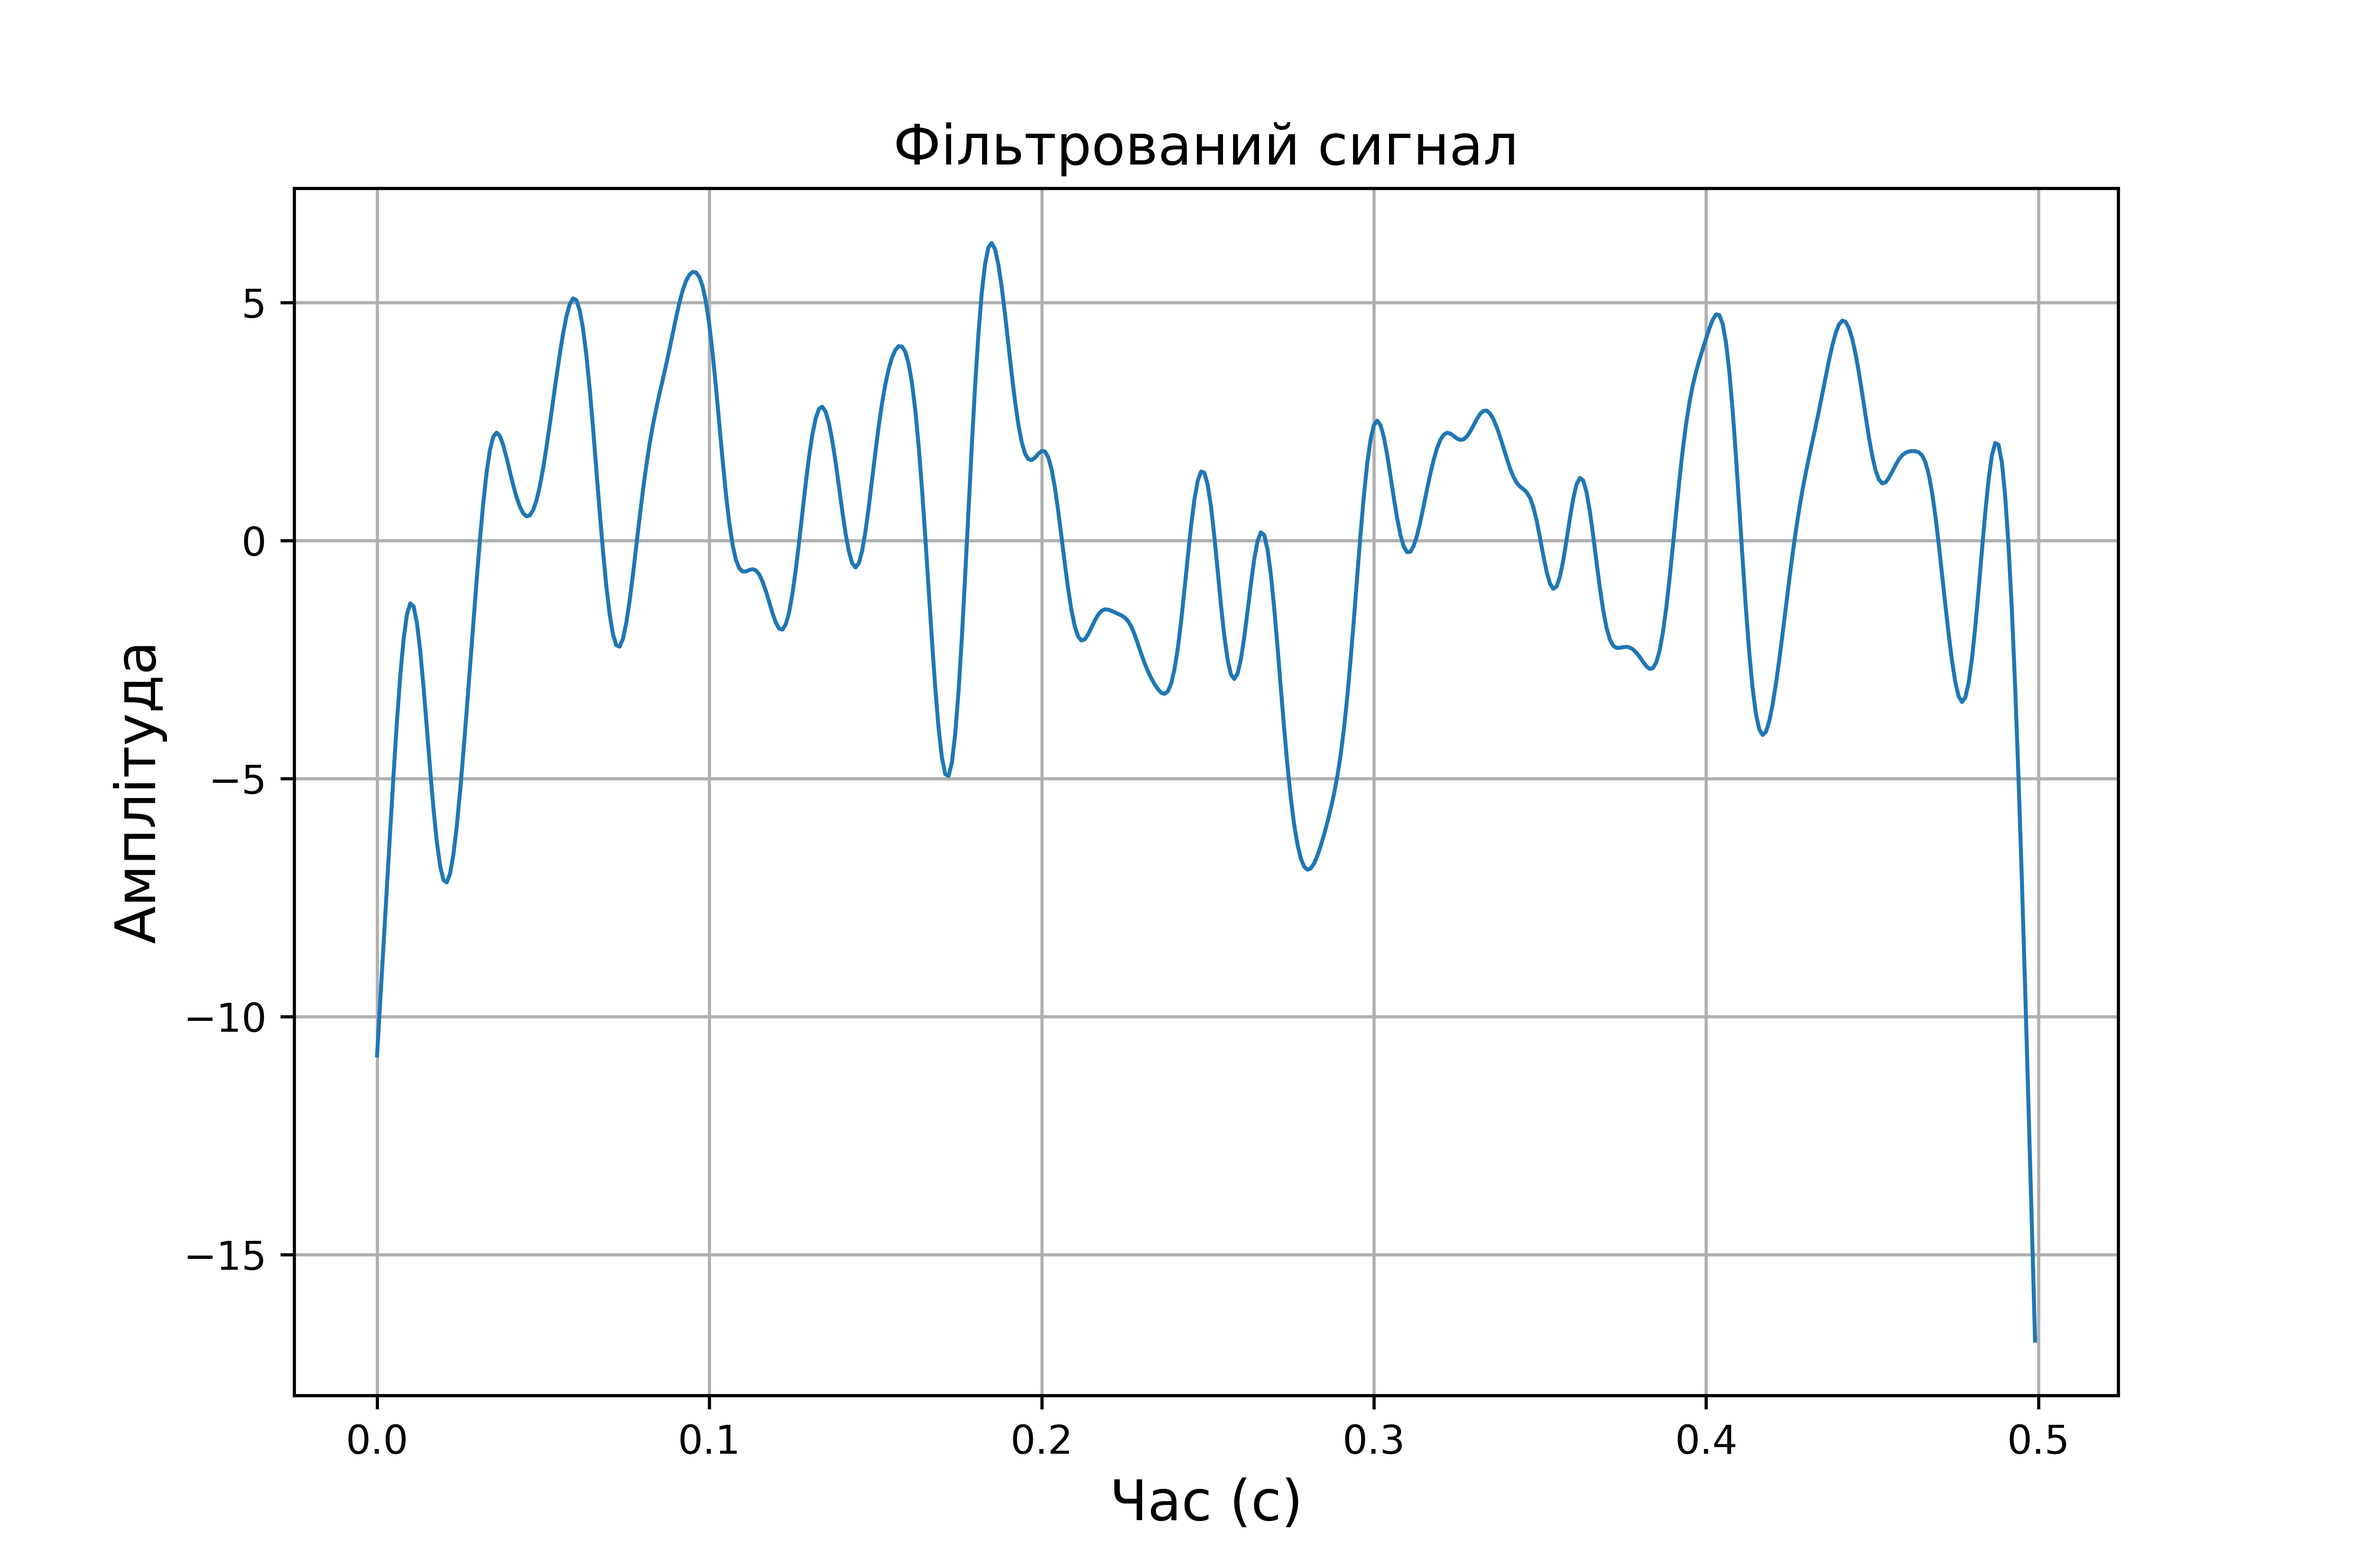
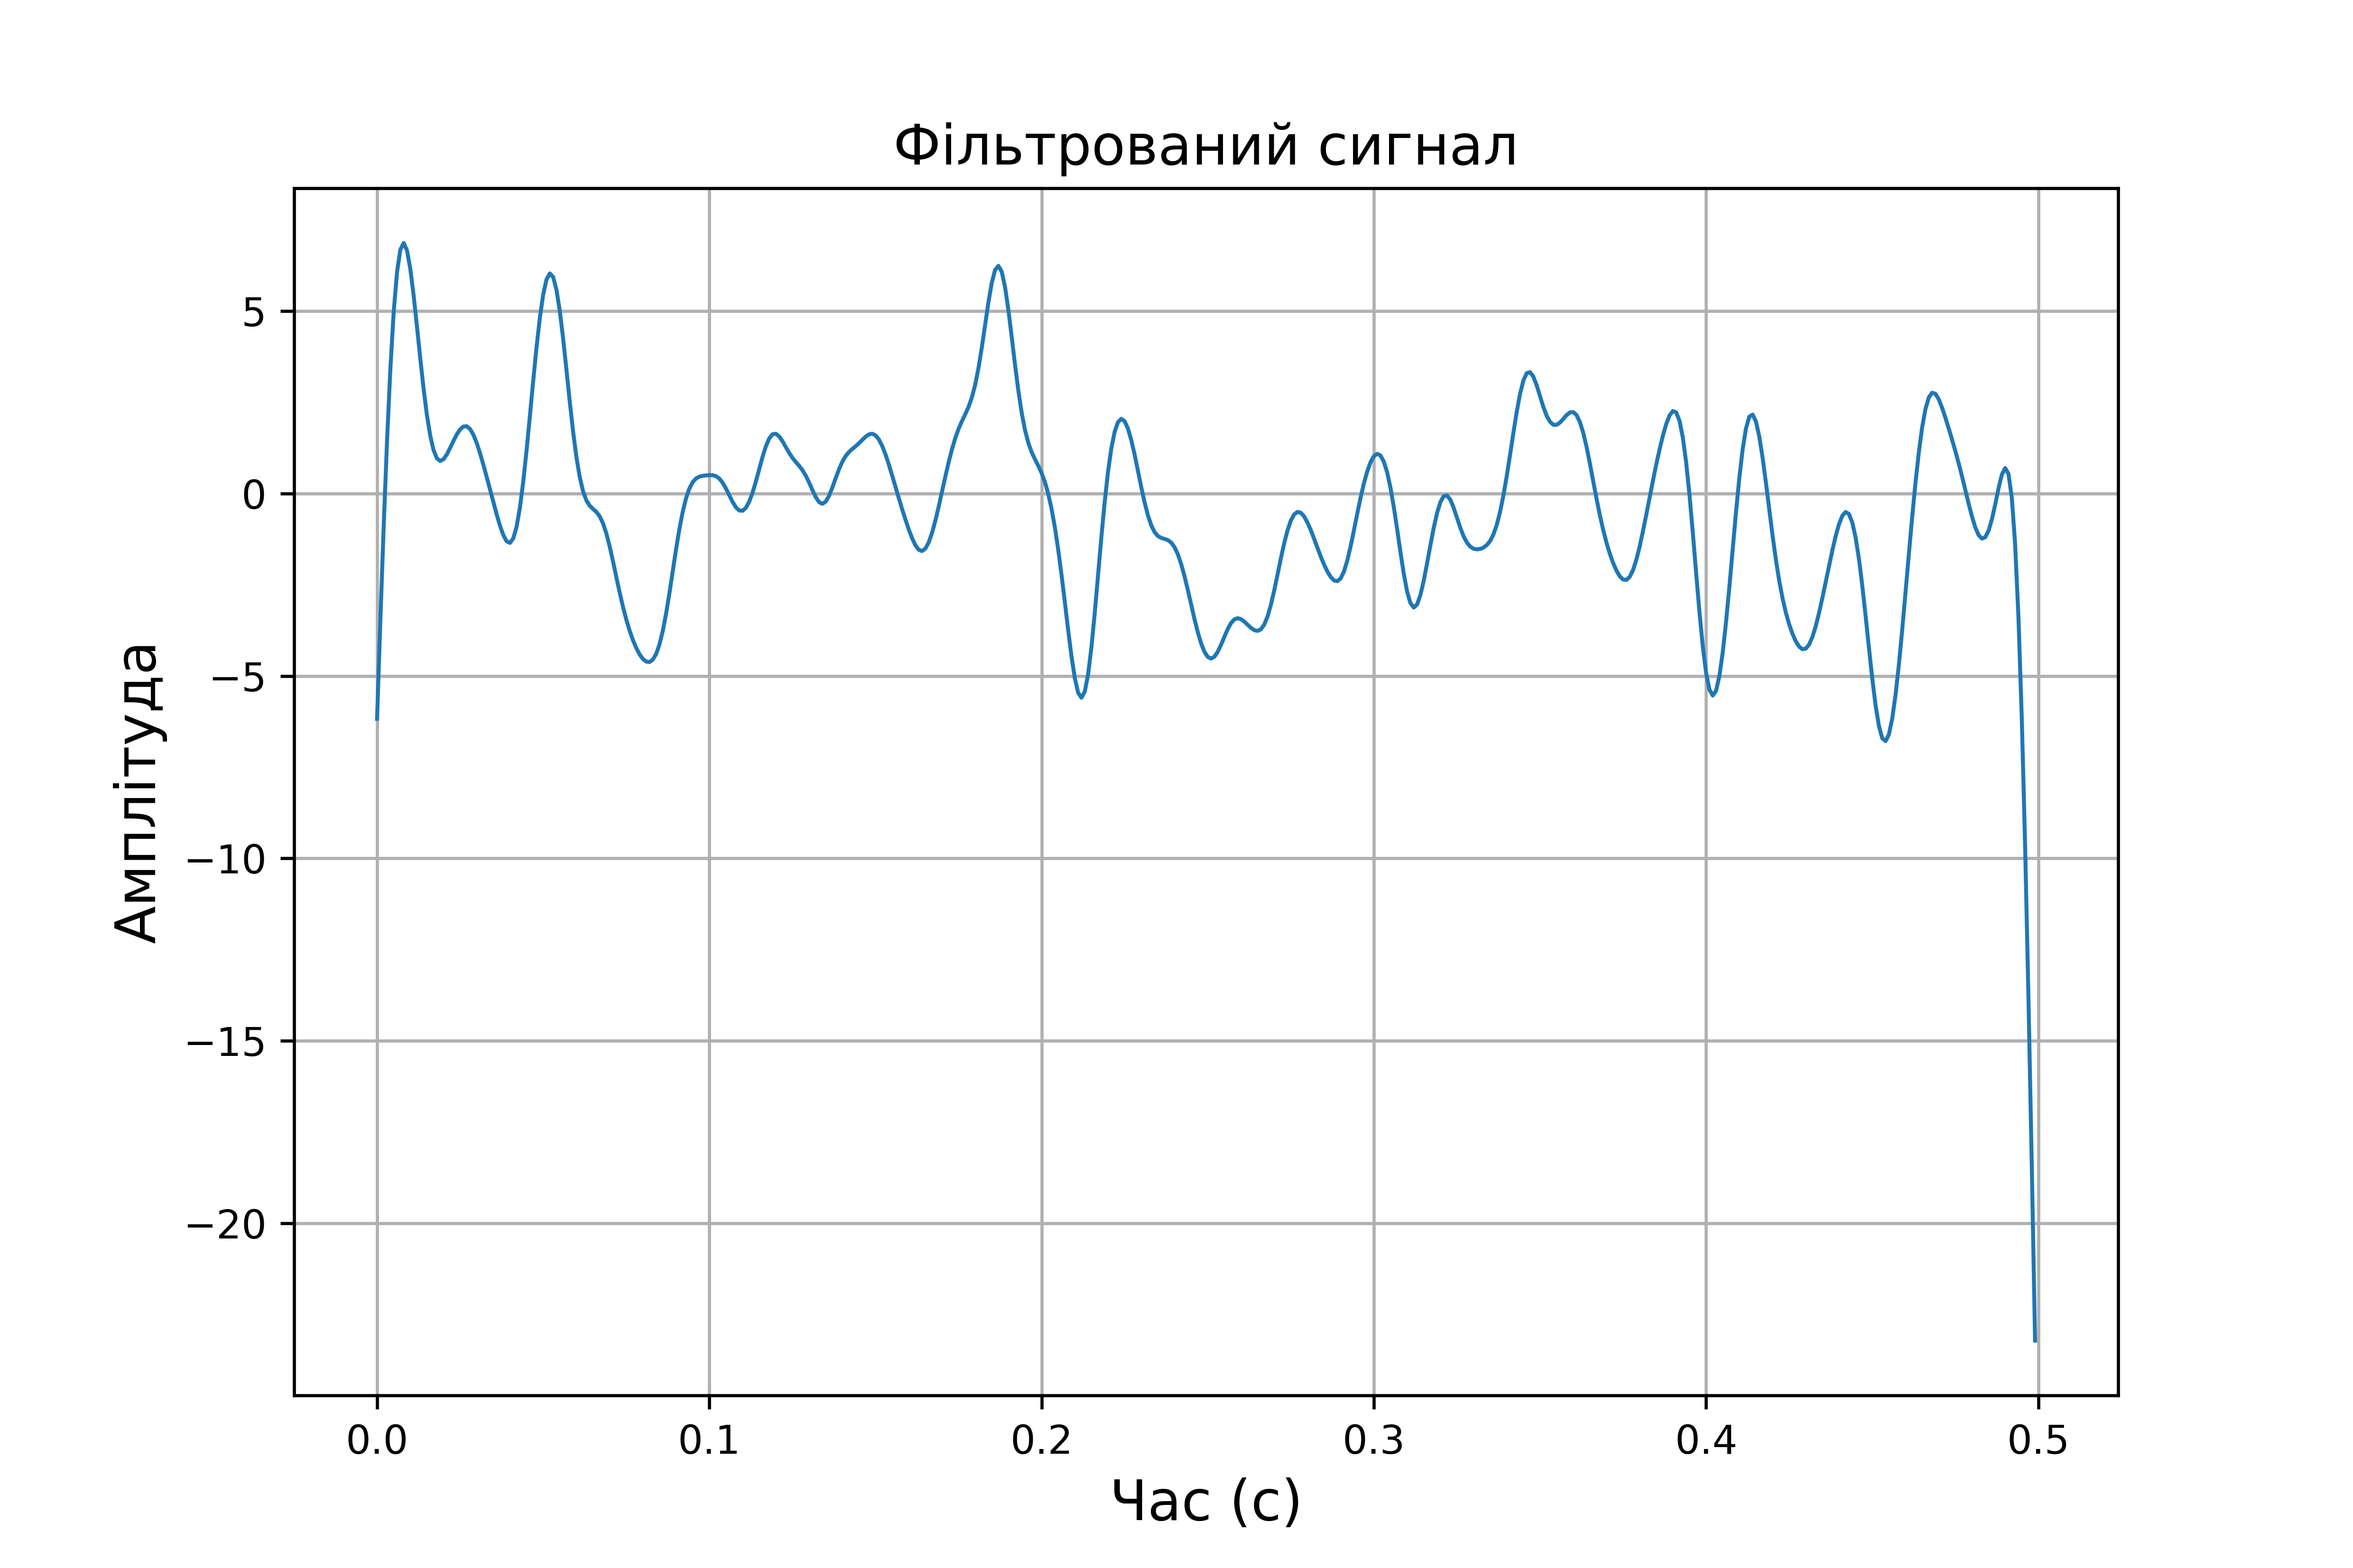
Signal processing, 3

diff --git a/SignalProcessing/SignalProcessing.py b/SignalProcessing/SignalProcessing.py
@@ -3,9 +3,10 @@ import matplotlib.pyplot as plt
 from scipy import signal
 import os
 
+
 def plot_graph(y, x, title, xlabel, ylabel, filename):
     os.makedirs('figures', exist_ok=True)
-    fig, ax = plt.subplots(figsize=(21/2.54, 14/2.54))
+    fig, ax = plt.subplots(figsize=(21 / 2.54, 14 / 2.54))
     ax.plot(x, y, linewidth=1)
     ax.set_xlabel(xlabel, fontsize=14)
     ax.set_ylabel(ylabel, fontsize=14)
@@ -13,6 +14,11 @@ def plot_graph(y, x, title, xlabel, ylabel, filename):
     plt.grid(True)
     plt.savefig(f'figures/{filename}.png', dpi=600)
     plt.show()
+
+
+# =====================================================
+# ПРАКТИЧНА РОБОТА №2 - ГЕНЕРАЦІЯ СИГНАЛУ
+# =====================================================
 
 n = 500
 Fs = 1000
@@ -28,17 +34,16 @@ filtered_signal = signal.sosfiltfilt(sos, random_signal)
 plot_graph(filtered_signal, t, 'Фільтрований сигнал', 'Час (с)', 'Амплітуда', 'filtered_signal')
 
 spectrum = np.abs(np.fft.fftshift(np.fft.fft(filtered_signal)))
-freq = np.fft.fftshift(np.fft.fftfreq(n, 1/Fs))
+freq = np.fft.fftshift(np.fft.fftfreq(n, 1 / Fs))
 
 plot_graph(spectrum, freq, 'Спектр сигналу', 'Частота (Гц)', 'Амплітуда', 'spectrum')
+
 # =====================================================
 # ПРАКТИЧНА РОБОТА №3 - ДИСКРЕТИЗАЦІЯ
 # =====================================================
 
-# Кроки дискретизації
 steps = [2, 4, 8, 16]
 
-# Списки для збереження результатів
 discrete_signals = []
 discrete_spectrums = []
 reconstructed_signals = []
@@ -46,23 +51,19 @@ variances = []
 snr_values = []
 
 for Dt in steps:
-    # 1. Дискретизація (прорідження)
     discrete_signal = np.zeros(n)
     for i in range(0, n, Dt):
         discrete_signal[i] = filtered_signal[i]
     discrete_signals.append(discrete_signal)
 
-    # 2. Спектр дискретизованого сигналу
-    spectrum = np.abs(np.fft.fftshift(np.fft.fft(discrete_signal)))
-    discrete_spectrums.append(spectrum)
+    spectrum_discrete = np.abs(np.fft.fftshift(np.fft.fft(discrete_signal)))
+    discrete_spectrums.append(spectrum_discrete)
 
-    # 3. Відновлення аналогового сигналу (ФНЧ)
     w_recon = F_max / (Fs / 2)
     sos_recon = signal.butter(3, w_recon, 'low', output='sos')
     reconstructed = signal.sosfiltfilt(sos_recon, discrete_signal)
     reconstructed_signals.append(reconstructed)
 
-    # 4. Розрахунок дисперсії та SNR
     error = reconstructed - filtered_signal
     var_error = np.var(error)
     var_signal = np.var(filtered_signal)
@@ -70,80 +71,72 @@ for Dt in steps:
     snr = var_signal / var_error if var_error > 0 else float('inf')
     snr_values.append(snr)
 
-# =====================================================
-# ПОБУДОВА ГРАФІКІВ
-# =====================================================
-
-font_size = 14
-line_width = 1
-fig_size = (21 / 2.54, 14 / 2.54)
-
-# 1. Графіки дискретизованих сигналів
-fig, ax = plt.subplots(2, 2, figsize=fig_size)
+# Графіки дискретизованих сигналів
+fig, ax = plt.subplots(2, 2, figsize=(21 / 2.54, 14 / 2.54))
 s = 0
 for i in range(2):
     for j in range(2):
-        ax[i, j].plot(t, discrete_signals[s], linewidth=line_width)
-        ax[i, j].set_title(f'Dt = {steps[s]}', fontsize=font_size)
+        ax[i, j].plot(t, discrete_signals[s], linewidth=1)
+        ax[i, j].set_title(f'Dt = {steps[s]}', fontsize=14)
         ax[i, j].grid(True)
         s += 1
-fig.supxlabel('Час (с)', fontsize=font_size)
-fig.supylabel('Амплітуда', fontsize=font_size)
-fig.suptitle('Дискретизовані сигнали', fontsize=font_size)
+fig.supxlabel('Час (с)', fontsize=14)
+fig.supylabel('Амплітуда', fontsize=14)
+fig.suptitle('Дискретизовані сигнали', fontsize=14)
 plt.tight_layout()
 plt.savefig('figures/discrete_signals.png', dpi=600)
 plt.show()
 
-# 2. Графіки спектрів дискретизованих сигналів
-fig, ax = plt.subplots(2, 2, figsize=fig_size)
+# Графіки спектрів
+fig, ax = plt.subplots(2, 2, figsize=(21 / 2.54, 14 / 2.54))
 s = 0
 for i in range(2):
     for j in range(2):
-        ax[i, j].plot(freq, discrete_spectrums[s], linewidth=line_width)
-        ax[i, j].set_title(f'Dt = {steps[s]}', fontsize=font_size)
+        ax[i, j].plot(freq, discrete_spectrums[s], linewidth=1)
+        ax[i, j].set_title(f'Dt = {steps[s]}', fontsize=14)
         ax[i, j].grid(True)
         s += 1
-fig.supxlabel('Частота (Гц)', fontsize=font_size)
-fig.supylabel('Амплітуда', fontsize=font_size)
-fig.suptitle('Спектри дискретизованих сигналів', fontsize=font_size)
+fig.supxlabel('Частота (Гц)', fontsize=14)
+fig.supylabel('Амплітуда', fontsize=14)
+fig.suptitle('Спектри дискретизованих сигналів', fontsize=14)
 plt.tight_layout()
 plt.savefig('figures/discrete_spectrums.png', dpi=600)
 plt.show()
 
-# 3. Графіки відновлених сигналів
-fig, ax = plt.subplots(2, 2, figsize=fig_size)
+# Графіки відновлених сигналів
+fig, ax = plt.subplots(2, 2, figsize=(21 / 2.54, 14 / 2.54))
 s = 0
 for i in range(2):
     for j in range(2):
-        ax[i, j].plot(t, reconstructed_signals[s], linewidth=line_width, label='Відновлений')
-        ax[i, j].plot(t, filtered_signal, 'r--', linewidth=line_width, label='Оригінал')
-        ax[i, j].set_title(f'Dt = {steps[s]}', fontsize=font_size)
+        ax[i, j].plot(t, reconstructed_signals[s], linewidth=1, label='Відновлений')
+        ax[i, j].plot(t, filtered_signal, 'r--', linewidth=1, label='Оригінал')
+        ax[i, j].set_title(f'Dt = {steps[s]}', fontsize=14)
         ax[i, j].grid(True)
         ax[i, j].legend()
         s += 1
-fig.supxlabel('Час (с)', fontsize=font_size)
-fig.supylabel('Амплітуда', fontsize=font_size)
-fig.suptitle('Відновлені сигнали', fontsize=font_size)
+fig.supxlabel('Час (с)', fontsize=14)
+fig.supylabel('Амплітуда', fontsize=14)
+fig.suptitle('Відновлені сигнали', fontsize=14)
 plt.tight_layout()
 plt.savefig('figures/reconstructed_signals.png', dpi=600)
 plt.show()
 
-# 4. Графік дисперсії від кроку дискретизації
-plt.figure(figsize=fig_size)
-plt.plot(steps, variances, 'bo-', linewidth=line_width)
-plt.xlabel('Крок дискретизації Dt', fontsize=font_size)
-plt.ylabel('Дисперсія помилки', fontsize=font_size)
-plt.title('Залежність дисперсії від кроку дискретизації', fontsize=font_size)
+# Дисперсія від кроку дискретизації
+plt.figure(figsize=(21 / 2.54, 14 / 2.54))
+plt.plot(steps, variances, 'bo-', linewidth=1)
+plt.xlabel('Крок дискретизації Dt', fontsize=14)
+plt.ylabel('Дисперсія помилки', fontsize=14)
+plt.title('Залежність дисперсії від кроку дискретизації', fontsize=14)
 plt.grid(True)
 plt.savefig('figures/variance_vs_dt.png', dpi=600)
 plt.show()
 
-# 5. Графік SNR від кроку дискретизації
-plt.figure(figsize=fig_size)
-plt.plot(steps, snr_values, 'gs-', linewidth=line_width)
-plt.xlabel('Крок дискретизації Dt', fontsize=font_size)
-plt.ylabel('Відношення сигнал/шум', fontsize=font_size)
-plt.title('Залежність SNR від кроку дискретизації', fontsize=font_size)
+# SNR від кроку дискретизації
+plt.figure(figsize=(21 / 2.54, 14 / 2.54))
+plt.plot(steps, snr_values, 'gs-', linewidth=1)
+plt.xlabel('Крок дискретизації Dt', fontsize=14)
+plt.ylabel('Відношення сигнал/шум (SNR)', fontsize=14)
+plt.title('Залежність SNR від кроку дискретизації', fontsize=14)
 plt.grid(True)
 plt.savefig('figures/snr_vs_dt.png', dpi=600)
 plt.show()
